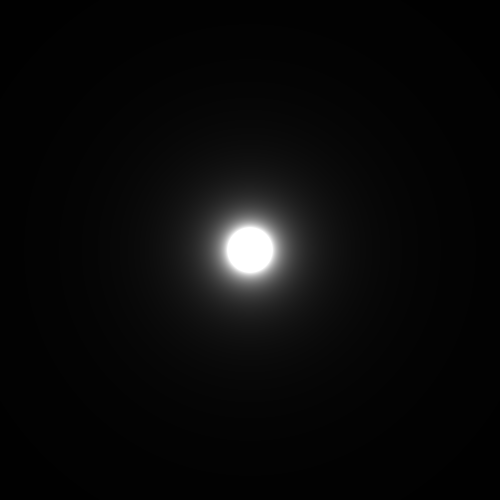
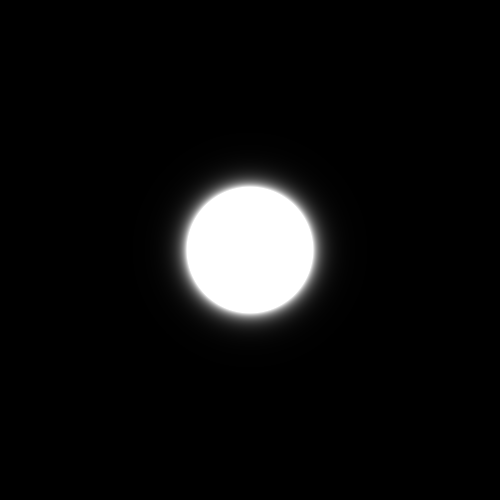
turn it into an orb

Changed region(s): [[0.33, 0.33, 0.66, 0.66]]

diff --git a/Content/NPCs/BossRush/BossRushOrb.cs b/Content/NPCs/BossRush/BossRushOrb.cs
@@ -1,0 +1,186 @@
+using Microsoft.Xna.Framework.Graphics;
+using StarlightRiver.Content.Backgrounds;
+using StarlightRiver.Core.Systems.ScreenTargetSystem;
+using StarlightRiver.Helpers;
+using System;
+using System.Collections.Generic;
+using System.Linq;
+using System.Threading;
+using Terraria;
+using Terraria.Audio;
+using Terraria.DataStructures;
+using Terraria.Graphics.Effects;
+
+namespace StarlightRiver.Content.NPCs.BossRush
+{
+	internal class BossRushOrb : ModNPC, ILoadable
+	{
+		public static EaseBuilder VoidEase;
+
+		public static List<BossRushOrb> activeBossRushLocks = new();
+
+		public Vector2 originalPos;
+		public Vector2 bobbleDirection = Vector2.Zero;
+
+		public bool isPlayingWarp = false;
+		public float warpAnimationTimer = 0;
+
+		public float starViewScale = 1;
+
+		public override string Texture => "StarlightRiver/Assets/NPCs/BossRush/BossRushOrb";
+
+		public override void Load()
+		{
+			StarlightRiverBackground.DrawMapEvent += DrawMap;
+			StarlightRiverBackground.DrawOverlayEvent += DrawOverlay;
+			StarlightRiverBackground.CheckIsActiveEvent += () => activeBossRushLocks.Count > 0;
+
+			VoidEase = new EaseBuilder();
+			VoidEase.AddPoint(new Vector2(0, 0.25f), EaseBuilder.EaseCubicIn);
+			VoidEase.AddPoint(new Vector2(45, 1.5f), new CubicBezierEase(0.2f, 1.5f, .8f, 1.5f));
+			VoidEase.AddPoint(new Vector2(75, 0.25f), new CubicBezierEase(0.15f, 0.6f, .5f, 1f));
+			VoidEase.AddPoint(new Vector2(135, 2f), EaseFunction.EaseCubicInOut);
+		}
+
+		public override void SetDefaults()
+		{
+			NPC.lifeMax = 400;
+			NPC.width = 42;
+			NPC.height = 42;
+			NPC.aiStyle = -1;
+			NPC.noGravity = true;
+			NPC.knockBackResist = 0f;
+
+			NPC.HitSound = new SoundStyle($"{nameof(StarlightRiver)}/Sounds/Impacts/Clink");
+		}
+
+		public override void AI()
+		{
+			Lighting.AddLight(NPC.Center, new Vector3(1, 1, 0.4f));
+
+			NPC.position = originalPos + bobbleDirection;
+			bobbleDirection = Vector2.Lerp(Vector2.Zero, bobbleDirection, 0.98f);
+			
+			if (isPlayingWarp)
+			{
+				warpAnimationTimer++;
+
+				starViewScale = VoidEase.Ease(warpAnimationTimer);
+			}
+			else
+			{
+				// starViewScale = 1 + 0.5f * (1f - (float)NPC.life / NPC.lifeMax);
+				starViewScale = 0.25f;
+			}
+		}
+
+		public override void OnSpawn(IEntitySource source)
+		{
+			activeBossRushLocks.Add(this);
+			originalPos = NPC.position;
+		}
+
+		public override void OnHitByItem(Player player, Item item, NPC.HitInfo hit, int damageDone)
+		{
+			hit.HideCombatText = true;
+			bobbleDirection += (NPC.Center - player.Center).SafeNormalize(Vector2.Zero) * item.knockBack;
+		}
+
+		public override void OnHitByProjectile(Projectile projectile, NPC.HitInfo hit, int damageDone)
+		{
+			hit.HideCombatText = true;
+			bobbleDirection += (NPC.Center - projectile.Center).SafeNormalize(Vector2.Zero) * projectile.knockBack;
+		}
+
+		public override bool CheckDead()
+		{
+			if (isPlayingWarp && warpAnimationTimer / 300 > 1)
+				return true;
+
+			NPC.life = 1;
+			NPC.immortal = true;
+			NPC.dontTakeDamage = true;
+			NPC.active = true;
+
+			isPlayingWarp = true;
+
+			return false;
+		}
+
+		public static void DrawOverlay(On_Main.orig_DrawInterface orig, Main self, GameTime gameTime, ScreenTarget starsMap, ScreenTarget starsTarget)
+		{
+			foreach (BossRushOrb bossRushLock in activeBossRushLocks)
+			{
+				if (bossRushLock.isPlayingWarp)
+				{
+					if (bossRushLock.warpAnimationTimer > 75)
+					{
+						Texture2D distortionMap = ModContent.Request<Texture2D>("StarlightRiver/Assets/Misc/StarViewWarpMap").Value;
+
+						Effect mapEffect = Filters.Scene["StarViewWarp"].GetShader().Shader;
+						mapEffect.Parameters["map"].SetValue(starsMap.RenderTarget);
+						mapEffect.Parameters["distortionMap"].SetValue(distortionMap);
+						mapEffect.Parameters["background"].SetValue(starsTarget.RenderTarget);
+
+						Vector2 pos = bossRushLock.NPC.Center - Main.screenPosition;
+
+						mapEffect.Parameters["uIntensity"].SetValue((bossRushLock.warpAnimationTimer - 75) / 60);
+						mapEffect.Parameters["uTargetPosition"].SetValue(pos);
+						mapEffect.Parameters["uResolution"].SetValue(new Vector2(Main.screenWidth, Main.screenHeight));
+
+						Main.spriteBatch.Begin(default, default, default, default, default, mapEffect, Main.GameViewMatrix.TransformationMatrix);
+
+						Main.spriteBatch.Draw(starsMap.RenderTarget, new Rectangle(0, 0, Main.screenWidth, Main.screenHeight), Color.White);
+
+						Main.spriteBatch.End();
+					}
+					else
+					{
+						Effect mapEffect = Filters.Scene["StarMap"].GetShader().Shader;
+						mapEffect.Parameters["map"].SetValue(starsMap.RenderTarget);
+						mapEffect.Parameters["background"].SetValue(starsTarget.RenderTarget);
+
+						Main.spriteBatch.Begin(default, default, default, default, default, mapEffect, Main.GameViewMatrix.TransformationMatrix);
+
+						Main.spriteBatch.Draw(starsMap.RenderTarget, new Rectangle(0, 0, Main.screenWidth, Main.screenHeight), Color.White);
+
+						Main.spriteBatch.End();
+					}
+				}
+			}
+		}
+
+		public static void DrawMap(SpriteBatch sb)
+		{
+			activeBossRushLocks.RemoveAll(x => !x.NPC.active || !Main.npc.Contains(x.NPC));
+
+
+			foreach (BossRushOrb bossRushLock in activeBossRushLocks)
+			{
+				Texture2D tex = Terraria.GameContent.TextureAssets.MagicPixel.Value;
+
+				Texture2D starView = ModContent.Request<Texture2D>("StarlightRiver/Assets/Misc/StarView").Value;
+
+				Effect wobble = Filters.Scene["StarViewWobble"].GetShader().Shader;
+				wobble.Parameters["uTime"].SetValue(Main.GameUpdateCount * 0.05f);
+				wobble.Parameters["uIntensity"].SetValue(1f);
+				// wobble.Parameters["bobbleAngle"].SetValue(bossRushLock.bobbleDirection.ToRotation());
+				// wobble.Parameters["bobbleMag"].SetValue(bossRushLock.bobbleDirection.Length());
+
+				Vector2 pos = bossRushLock.NPC.Center - Main.screenPosition;
+
+				Color color = Color.White;
+				color.A = 0;
+
+				int starViewWidth = (int)(600 * bossRushLock.starViewScale);
+
+				sb.End();
+				sb.Begin(default, BlendState.Additive, default, default, default, wobble, Main.GameViewMatrix.ZoomMatrix);
+				sb.Draw(starView, new Rectangle((int)pos.X - starViewWidth / 2, (int)pos.Y - starViewWidth / 2, starViewWidth, starViewWidth), color);
+
+				sb.End();
+				sb.Begin(default, default, default, default, default, default, Main.GameViewMatrix.ZoomMatrix);
+			}
+		}
+	}
+}

diff --git a/Core/Systems/BossRushSystem/BossRushSystem.cs b/Core/Systems/BossRushSystem/BossRushSystem.cs
@@ -1,4 +1,5 @@
-using Microsoft.Xna.Framework.Graphics;
+using Microsoft.Xna.Framework;
+using Microsoft.Xna.Framework.Graphics;
 using StarlightRiver.Content.Backgrounds;
 using StarlightRiver.Content.Bosses.GlassMiniboss;
 using StarlightRiver.Content.Bosses.SquidBoss;
@@ -47,9 +48,9 @@ namespace StarlightRiver.Core.Systems.BossRushSystem
 
 		public override void Load()
 		{
-			//StarlightRiverBackground.DrawMapEvent += DrawMap;
-			//StarlightRiverBackground.DrawOverlayEvent += DrawOverlay;
-			//StarlightRiverBackground.CheckIsActiveEvent += () => isBossRush;
+			StarlightRiverBackground.DrawMapEvent += DrawMap;
+			StarlightRiverBackground.DrawOverlayEvent += DrawOverlay;
+			StarlightRiverBackground.CheckIsActiveEvent += () => isBossRush;
 			On_Main.DoUpdate += Speedup;
 
 			File.WriteAllBytes(Path.Combine(ModLoader.ModPath, "BossRushWorld.wld"), Mod.GetFileBytes("Worlds/BossRushWorld.wld"));
@@ -158,13 +159,13 @@ namespace StarlightRiver.Core.Systems.BossRushSystem
 			{
 				new BossRushStage(
 					"Structures/BossRushStart",
-					ModContent.NPCType<BossRushLock>(),
+					ModContent.NPCType<BossRushOrb>(),
 					new Vector2(250, 200),
 					a =>
 					{
 						StarlightWorld.vitricBiome = new Rectangle(0, 2000, 40, 40);
 
-						NPC.NewNPC(null, (int)a.X + 250, (int)a.Y + 200, ModContent.NPCType<BossRushLock>());
+						NPC.NewNPC(null, (int)a.X + 250, (int)a.Y + 200, ModContent.NPCType<BossRushOrb>());
 
 						visibleArea = new Rectangle((int)a.X, (int)a.Y, 500, 360);
 						HushArmorSystem.DPSTarget = 50;
@@ -397,6 +398,9 @@ namespace StarlightRiver.Core.Systems.BossRushSystem
 		/// <param name="sb"></param>
 		public static void DrawMap(SpriteBatch sb)
 		{
+			if (!isBossRush)
+				return;
+
 			Texture2D tex = Terraria.GameContent.TextureAssets.MagicPixel.Value;
 			Texture2D gradV = ModContent.Request<Texture2D>("StarlightRiver/Assets/GradientV").Value;
 			Texture2D gradH = ModContent.Request<Texture2D>("StarlightRiver/Assets/GradientH").Value;

diff --git a/Core/EaseFunction.cs b/Core/EaseFunction.cs
@@ -1,4 +1,5 @@
-using System;
+using StarlightRiver.Helpers;
+using System;
 using System.Collections.Generic;
 
 namespace StarlightRiver.Core
@@ -51,6 +52,21 @@ namespace StarlightRiver.Core
 		//public static EaseFunction Generate(int factor, int type)
 		//{
 		//}
+	}
+
+	public class CubicBezierEase : EaseFunction
+	{
+		private readonly Func<float, float> fun;
+
+		public CubicBezierEase(float p1x, float p1y, float p2x, float p2y)
+		{
+			fun = Helper.CubicBezier(p1x, p1y, p2x, p2y);
+		}
+
+		public override float Ease(float time)
+		{
+			return fun(time);
+		}
 	}
 
 	public class EaseBuilder : EaseFunction
